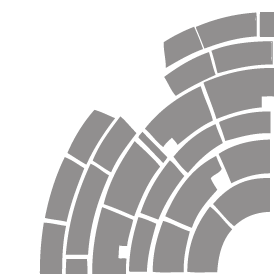
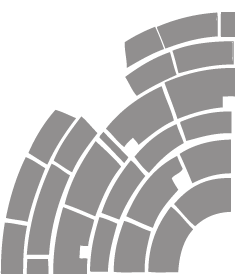
stadion secties kopen

Changed region(s): [[0.0, 0.0292, 0.983, 1.0], [0.983, 0.4088, 1.0, 0.7883]]

diff --git a/style/style1168.css b/style/style1168.css
@@ -184,24 +184,25 @@ img#galleryRightHideSmall{left:1120px;position:relative;}
 #contentSmall{height:56px;width:89px;overflow:hidden;position:relative;border:1px solid black;}
 .imgsSmall{float:left;display:inline;-webkit-transition-property:-webkit-transform;-webkit-transition-duration:0.5s;-webkit-transition-timing-function:ease-out;padding:0px;margin:0px;width:2700px;-webkit-transform:translate3d(0px, 0px, 0px);}
 .imgsSmall img{padding:0px;margin:0px;width:138px;height:50px;-webkit-transform:translate3d(0px, 0px, 0px);}
-#midden_midden{width:500px;height:1000px;float:right;}
+#midden_midden{width:50px;height:359px;float:right;}
 #plaatsen{width:400px;}
-#stadion{width:600px;height:706px;float:left;}
+#stadion{width:640px;height:806px;float:left;margin:0 0 0 60px;}
 #links_boven{width:100px;height:100px;float:left;background-color:blue;-webkit-border-top-left-radius:100px;}
-#links_boven_kopen{width:275px;height:275px;float:left;background-image:url(../img/stadion/a_sectie.png);background-repeat:no-repeat;opacity:0.25;}
-#midden_boven{float:right;width:400px;height:100px;}
-#midden_boven_kopen{float:right;width:400px;height:100px;text-align:center;}
-#rechts_boven{width:100px;height:100px;float:right;background-color:blue;-webkit-border-top-right-radius:100px;}
-#rechts_boven_kopen{width:100px;height:100px;float:right;-webkit-border-top-right-radius:100px;text-align:center;}
-#rechts_midden{width:100px;height:500px;float:right;background-color:green;}
-#rechts_midden_kopen{width:100px;height:500px;float:right;text-align:center;}
-#links_midden{width:100px;height:500px;float:left;background-color:green;}
-#rechts_onder{width:100px;height:100px;float:right;background-color:blue;-webkit-border-bottom-right-radius:100px;}
-#rechts_onder_kopen{width:100px;height:100px;float:right;text-align:center;-webkit-border-bottom-right-radius:100px;}
-#midden_onder{width:400px;height:100px;float:right;background-color:green;}
-#midden_onder_kopen{width:400px;height:100px;float:right;text-align:center;}
-#links_onder{width:100px;height:100px;float:left;background-color:blue;-webkit-border-bottom-left-radius:100px;}
-#links_onder_kopen{width:100px;height:100px;float:left;text-align:center;-webkit-border-bottom-left-radius:100px;}
+#links_boven_kopen{width:235px;height:277px;float:left;background-image:url(../img/stadion/a_sectie.png);background-repeat:no-repeat;opacity:0.2;-webkit-transition-duration:1.6s;-webkit-transition-timing-function:ease-in-out;-moz-transition-duration:1.6s;-moz-transition-timing-function:ease-in-out;-o-transition-duration:1.6s;-o-transition-timing-function:ease-in-out;-ms-transition-duration:1.6s;-ms-transition-timing-function:ease-in-out;transition-duration:1.6s;transition-timing-function:ease-in-out;}
+#links_boven_kopen:hover,#midden_boven_kopen:hover,#rechts_boven_kopen:hover,#rechts_midden_kopen:hover,#rechts_onder_kopen:hover,#midden_onder_kopen:hover,#links_onder_kopen:hover,#links_midden_kopen:hover{-webkit-transition-duration:0.1s;-webkit-transition-timing-function:ease-in-out;-moz-transition-duration:0.1s;-moz-transition-timing-function:ease-in-out;-o-transition-duration:0.1s;-o-transition-timing-function:ease-in-out;-ms-transition-duration:0.1s;-ms-transition-timing-function:ease-in-out;transition-duration:0.1s;transition-timing-function:ease-in-out;opacity:0.3;}
+#midden_boven{float:right;background-image:url(../img/stadion/b_sectie_bought.png);background-repeat:no-repeat;opacity:0.75;width:206px;height:274px;}
+#midden_boven_kopen{float:right;background-image:url(../img/stadion/b_sectie.png);background-repeat:no-repeat;opacity:0.2;width:206px;height:274px;-webkit-transition-duration:1.6s;-webkit-transition-timing-function:ease-in-out;-moz-transition-duration:1.6s;-moz-transition-timing-function:ease-in-out;-o-transition-duration:1.6s;-o-transition-timing-function:ease-in-out;-ms-transition-duration:1.6s;-ms-transition-timing-function:ease-in-out;transition-duration:1.6s;transition-timing-function:ease-in-out;}
+#rechts_boven{width:196px;height:274px;float:right;background-image:url(../img/stadion/c_sectie_bought.png);background-repeat:no-repeat;opacity:0.75;}
+#rechts_boven_kopen{width:196px;height:274px;float:right;background-image:url(../img/stadion/c_sectie.png);background-repeat:no-repeat;opacity:0.2;-webkit-transition-duration:1.6s;-webkit-transition-timing-function:ease-in-out;-moz-transition-duration:1.6s;-moz-transition-timing-function:ease-in-out;-o-transition-duration:1.6s;-o-transition-timing-function:ease-in-out;-ms-transition-duration:1.6s;-ms-transition-timing-function:ease-in-out;transition-duration:1.6s;transition-timing-function:ease-in-out;}
+#rechts_midden{width:196px;height:359px;float:right;background-image:url(../img/stadion/d_sectie_bought.png);background-repeat:no-repeat;opacity:0.75;}
+#rechts_midden_kopen{width:196px;height:359px;float:right;background-image:url(../img/stadion/d_sectie.png);background-repeat:no-repeat;opacity:0.2;-webkit-transition-duration:1.6s;-webkit-transition-timing-function:ease-in-out;-moz-transition-duration:1.6s;-moz-transition-timing-function:ease-in-out;-o-transition-duration:1.6s;-o-transition-timing-function:ease-in-out;-ms-transition-duration:1.6s;-ms-transition-timing-function:ease-in-out;transition-duration:1.6s;transition-timing-function:ease-in-out;}
+#links_midden{width:235px;height:359px;float:left;background-image:url(../img/stadion/h_sectie_bought.png);background-repeat:no-repeat;opacity:0.75;}
+#rechts_onder{width:196px;height:269px;float:right;background-image:url(../img/stadion/e_sectie_bought.png);background-repeat:no-repeat;opacity:0.75;}
+#rechts_onder_kopen{width:196px;height:269px;float:right;background-image:url(../img/stadion/e_sectie.png);background-repeat:no-repeat;opacity:0.2;-webkit-transition-duration:1.6s;-webkit-transition-timing-function:ease-in-out;-moz-transition-duration:1.6s;-moz-transition-timing-function:ease-in-out;-o-transition-duration:1.6s;-o-transition-timing-function:ease-in-out;-ms-transition-duration:1.6s;-ms-transition-timing-function:ease-in-out;transition-duration:1.6s;transition-timing-function:ease-in-out;}
+#midden_onder{width:206px;height:209px;float:right;background-image:url(../img/stadion/f_sectie_bought.png);background-repeat:no-repeat;opacity:0.75;}
+#midden_onder_kopen{width:206px;height:209px;float:right;background-image:url(../img/stadion/f_sectie.png);background-repeat:no-repeat;opacity:0.2;-webkit-transition-duration:1.6s;-webkit-transition-timing-function:ease-in-out;-moz-transition-duration:1.6s;-moz-transition-timing-function:ease-in-out;-o-transition-duration:1.6s;-o-transition-timing-function:ease-in-out;-ms-transition-duration:1.6s;-ms-transition-timing-function:ease-in-out;transition-duration:1.6s;transition-timing-function:ease-in-out;}
+#links_onder{width:235px;height:269px;float:left;background-image:url(../img/stadion/g_sectie_bought.png);background-repeat:no-repeat;opacity:0.75;}
+#links_onder_kopen{width:235px;height:269px;float:left;background-image:url(../img/stadion/g_sectie.png);background-repeat:no-repeat;opacity:0.2;-webkit-transition-duration:1.6s;-webkit-transition-timing-function:ease-in-out;-moz-transition-duration:1.6s;-moz-transition-timing-function:ease-in-out;-o-transition-duration:1.6s;-o-transition-timing-function:ease-in-out;-ms-transition-duration:1.6s;-ms-transition-timing-function:ease-in-out;transition-duration:1.6s;transition-timing-function:ease-in-out;}
 .kopen{text-decoration:underline;cursor:pointer;color:blue;margin-left:35px;font-size:9pt;}
 #footerWrap{float:left;width:100%;background:url(../img/1168/footerfill_top.png) repeat-x 0% 0%,url(../img/1168/footerfill.png) repeat-x 0px 40px;}
 footer{width:1168px;margin:0 auto 0 auto;}

diff --git a/style/style1168.less b/style/style1168.less
@@ -1243,8 +1243,8 @@ img#galleryRightHideSmall {
 /* Small GALLERY end -------------------------------------------------------------------------------------------------------------*/
 /* STADION begin -------------------------------------------------------------------------------------------------------------*/
 #midden_midden {
-	width: 500px;
-	height: 1000px;
+	width: 50px;
+	height: 359px;
 	float: right;
 /*
 background-image: url(../img/field.png);
@@ -1255,9 +1255,10 @@ background-repeat: no-repeat;
 	width: 400px;
 }
 #stadion {
-	width: 600px;
-	height: 706px;
+	width: 640px;
+	height: 806px;
 	float: left;
+	margin: 0 0 0 60px;
 }
 #links_boven {
 	width: 100px;
@@ -1267,97 +1268,131 @@ background-repeat: no-repeat;
 	-webkit-border-top-left-radius: 100px;
 }
 #links_boven_kopen {
-	width: 275px;
-	height: 275px;
+	width: 235px;
+	height: 277px;
 	float: left;
 	background-image: url(../img/stadion/a_sectie.png);
 	background-repeat: no-repeat;
-	opacity: 0.25;
+	opacity: 0.2;
+	.transitionOff;
+}
+#links_boven_kopen:hover, #midden_boven_kopen:hover, #rechts_boven_kopen:hover, #rechts_midden_kopen:hover, #rechts_onder_kopen:hover, #midden_onder_kopen:hover, #links_onder_kopen:hover, #links_midden_kopen:hover {
+.transitionOn;
+	opacity: 0.3;
 }
 #midden_boven {
 	float:right;
-	width: 400px;
-	height: 100px;
+	background-image: url(../img/stadion/b_sectie_bought.png);
+	background-repeat: no-repeat;
+	opacity: 0.75;
+		width: 206px;
+	height: 274px;
+	
 
 }
 #midden_boven_kopen {
 	float:right;
-	width: 400px;
-	height: 100px;
-	text-align: center;
+	background-image: url(../img/stadion/b_sectie.png);
+	background-repeat: no-repeat;
+	opacity: 0.2;
+		width: 206px;
+	height: 274px;
+	.transitionOff;
 }
 #rechts_boven {
-	width: 100px;
-	height: 100px;
-	float:right;
-	background-color: blue;
-	-webkit-border-top-right-radius: 100px;
+	width: 196px;
+	height: 274px;
+	float: right;
+	background-image: url(../img/stadion/c_sectie_bought.png);
+	background-repeat: no-repeat;
+	opacity: 0.75;
 }
 #rechts_boven_kopen {
-	width: 100px;
-	height: 100px;
-	float:right;
-	-webkit-border-top-right-radius: 100px;
-	text-align: center;
-}
-#rechts_midden {
-	width: 100px;
-	height: 500px;
+	width: 196px;
+	height: 274px;
 	float: right;
-	background-color: green;
+	background-image: url(../img/stadion/c_sectie.png);
+	background-repeat: no-repeat;
+	opacity: 0.2;
+	.transitionOff;
+	}
+#rechts_midden {
+	width: 196px;
+	height: 359px;
+	float: right;
+	background-image: url(../img/stadion/d_sectie_bought.png);
+	background-repeat: no-repeat;
+	opacity: 0.75;
 }
 #rechts_midden_kopen {
-	width: 100px;
-	height: 500px;
+	width: 196px;
+	height: 359px;
 	float: right;
-	text-align: center;
+	background-image: url(../img/stadion/d_sectie.png);
+	background-repeat: no-repeat;
+	opacity: 0.2;
+	.transitionOff;
 }
 
 #links_midden {
-	width: 100px;
-	height: 500px;
+	width: 235px;
+	height: 359px;
 	float: left;
-	background-color: green;
+	background-image: url(../img/stadion/h_sectie_bought.png);
+	background-repeat: no-repeat;
+	opacity: 0.75;
+	
 }
 #rechts_onder {
-	width: 100px;
-	height: 100px;
+	width: 196px;
+	height: 269px;
 	float: right;
-	background-color: blue;
-	-webkit-border-bottom-right-radius: 100px;
+	background-image: url(../img/stadion/e_sectie_bought.png);
+	background-repeat: no-repeat;
+		opacity: 0.75;
 }
 #rechts_onder_kopen {
-	width: 100px;
-	height: 100px;
+	width: 196px;
+	height: 269px;
 	float: right;
-	text-align: center;
-	-webkit-border-bottom-right-radius: 100px;
+	background-image: url(../img/stadion/e_sectie.png);
+	background-repeat: no-repeat;
+	opacity: 0.2;
+	.transitionOff;
 }
 #midden_onder {
-	width: 400px;
-	height: 100px;
+	width: 206px;
+	height: 209px;
 	float: right;
-	background-color: green;
+	background-image: url(../img/stadion/f_sectie_bought.png);
+	background-repeat: no-repeat;
+	opacity: 0.75;
 }
 #midden_onder_kopen {
-	width: 400px;
-	height: 100px;
+	width: 206px;
+	height: 209px;
 	float: right;
-	text-align: center;
+	background-image: url(../img/stadion/f_sectie.png);
+	background-repeat: no-repeat;
+	opacity: 0.2;
+	.transitionOff;
 }
 #links_onder {
-	width: 100px;
-	height: 100px;
+	width: 235px;
+	height: 269px;
 	float: left;
-	background-color: blue;
-	-webkit-border-bottom-left-radius: 100px;
+	background-image: url(../img/stadion/g_sectie_bought.png);
+	background-repeat: no-repeat;
+	opacity: 0.75;
 }
 #links_onder_kopen {
-	width: 100px;
-	height: 100px;
+	width: 235px;
+	height: 269px;
 	float: left;
- text-align: center;
-  -webkit-border-bottom-left-radius: 100px;
+	background-image: url(../img/stadion/g_sectie.png);
+	background-repeat: no-repeat;
+	opacity: 0.2;
+	.transitionOff;
 }
 .kopen {
 	text-decoration: underline;

diff --git a/js/korfbal/stadion.js b/js/korfbal/stadion.js
@@ -25,7 +25,7 @@ $(function(){
 				    	$('#stadion').append('<div id="rechts_boven"></div>');
 				    	$('#sec_g').append('<div class="input">'+stadion['g'].plaatsen+'&nbsp;plaatsen.<p><input type="text" id="g" value="1"/><span id="plaatsen_g" class="kopen">Koop plaatsen</span></p><div>	');	    	
         			}else{
-        				$('#stadion').append('<div id="rechts_boven_kopen">$</div>');
+        				$('#stadion').append('<div id="rechts_boven_kopen"></div>');
         				$('#sec_g').append('<p id="sectie_g" class="kopen input">Sectie G nu kopen</p>');
 
         			}
@@ -35,7 +35,7 @@ $(function(){
 				    	$('#sec_b').append('<div class="input">'+stadion['b'].plaatsen+'&nbsp;plaatsen.<p><input type="text" id="b" value="1"/><span id="plaatsen_b" class="kopen">Koop plaatsen</span></p><div>	');	
 				    	   	
         			}else{
-        				$('#stadion').append('<div id="midden_boven_kopen">$</div>');
+        				$('#stadion').append('<div id="midden_boven_kopen"></div>');
         				$('#sec_b').append('<p id="sectie_b" class="kopen input">Sectie B nu kopen</p>');
         			}
 					
@@ -43,7 +43,7 @@ $(function(){
 				    	$('#stadion').append('<div id="links_boven"></div>');	
 				    	$('#sec_f').append('<div class="input">'+stadion['f'].plaatsen+'&nbsp;plaatsen.<p><input type="text" id="f" value="1"/><span id="plaatsen_f" class="kopen">Koop plaatsen</span></p><div>	');
         			}else{
-        				$('#stadion').append('<div id="links_boven_kopen">$</div>');
+        				$('#stadion').append('<div id="links_boven_kopen"></div>');
         				$('#sec_f').append('<p id="sectie_f" class="kopen input">Sectie F nu kopen</p>');
         			}
 					
@@ -52,7 +52,7 @@ $(function(){
 				    	$('#sec_c').append('<div class="input">'+stadion['c'].plaatsen+'&nbsp;plaatsen.<p><input type="text" id="c" value="1"/><span id="plaatsen_c" class="kopen">Koop plaatsen</span></p><div>	');	
 	    	
         			}else{
-        				$('#stadion').append('<div id="rechts_midden_kopen">$</div>');
+        				$('#stadion').append('<div id="rechts_midden_kopen"></div>');
         				$('#sec_c').append('<p id="sectie_c" class="kopen input">Sectie C nu kopen</p>');
         			}
         			
@@ -62,7 +62,7 @@ $(function(){
 				    	$('#stadion').append('<div id="links_midden"></div>');	
 				    	$('#sec_a').append('<div class="input">'+stadion['a'].plaatsen+'&nbsp;plaatsen.<p><input type="text" id="a" value="1"/><span id="plaatsen_a" class="kopen">Koop plaatsen</span></p><div>	');	    	
         			}else{
-        				$('#stadion').append('<div id="links_midden_kopen">$</div>');
+        				$('#stadion').append('<div id="links_midden_kopen"></div>');
         				$('#sec_a').append('<p id="sectie_a" class="kopen input">Sectie A nu kopen</p>');
         			}
         			
@@ -70,7 +70,7 @@ $(function(){
 				    	$('#stadion').append('<div id="rechts_onder"></div>');
 				  		$('#sec_h').append('<div class="input">'+stadion['h'].plaatsen+'&nbsp;plaatsen.<p><input type="text" id="h" value="1"/><span id="plaatsen_h" class="kopen">Koop plaatsen</span></p><div>	'); 	    	
         			}else{
-        				$('#stadion').append('<div id="rechts_onder_kopen">$</div>');
+        				$('#stadion').append('<div id="rechts_onder_kopen"></div>');
         				$('#sec_h').append('<p id="sectie_h" class="kopen input">Sectie H nu kopen</p>');
         			}
 					
@@ -78,7 +78,7 @@ $(function(){
 				    	$('#stadion').append('<div id="midden_onder"></div>');	
 				    	$('#sec_d').append('<div class="input">'+stadion['d'].plaatsen+'&nbsp;plaatsen.<p><input type="text" id="d" value="1"/><span id="plaatsen_d" class="kopen">Koop plaatsen</span></p><div>	');	   	
         			}else{
-        				$('#stadion').append('<div id="midden_onder_kopen">$</div>');
+        				$('#stadion').append('<div id="midden_onder_kopen"></div>');
         				$('#sec_d').append('<p id="sectie_d" class="kopen input">Sectie D nu kopen</p>');
         			}
 					
@@ -86,7 +86,7 @@ $(function(){
 				    	$('#stadion').append('<div id="links_onder"></div>');
 				    	$('#sec_e').append('<div class="input">'+stadion['e'].plaatsen+'&nbsp;plaatsen.<p><input type="text" id="e" value="1"/><span id="plaatsen_e" class="kopen">Koop plaatsen</span></p><div>	');		    	
         			}else{
-        				$('#stadion').append('<div id="links_onder_kopen">$</div>');
+        				$('#stadion').append('<div id="links_onder_kopen"></div>');
         				$('#sec_e').append('<p id="sectie_e" class="kopen input">Sectie E nu kopen</p>');
         			}
         			
